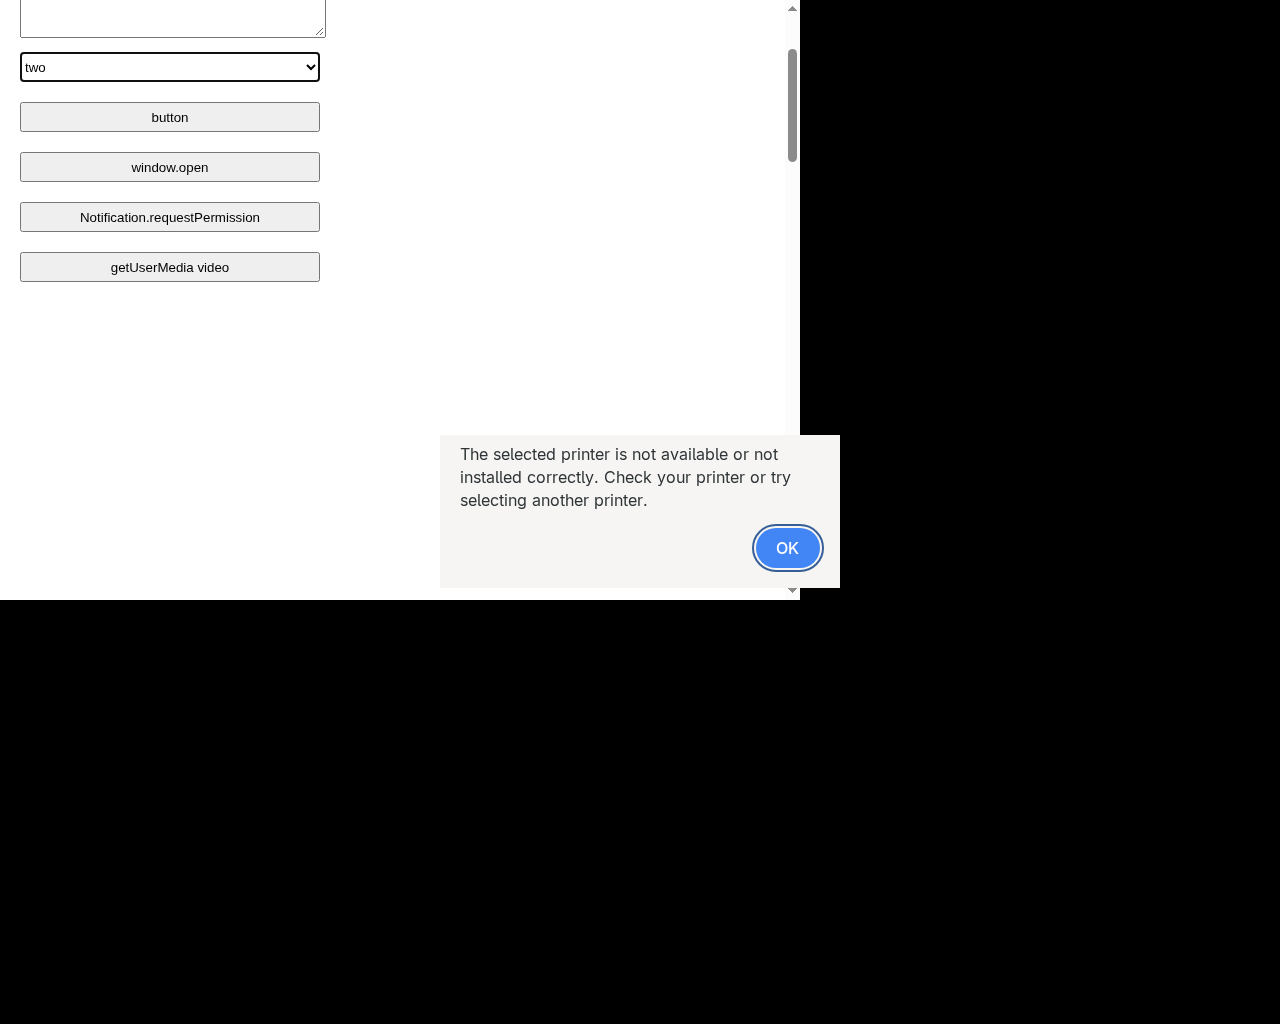
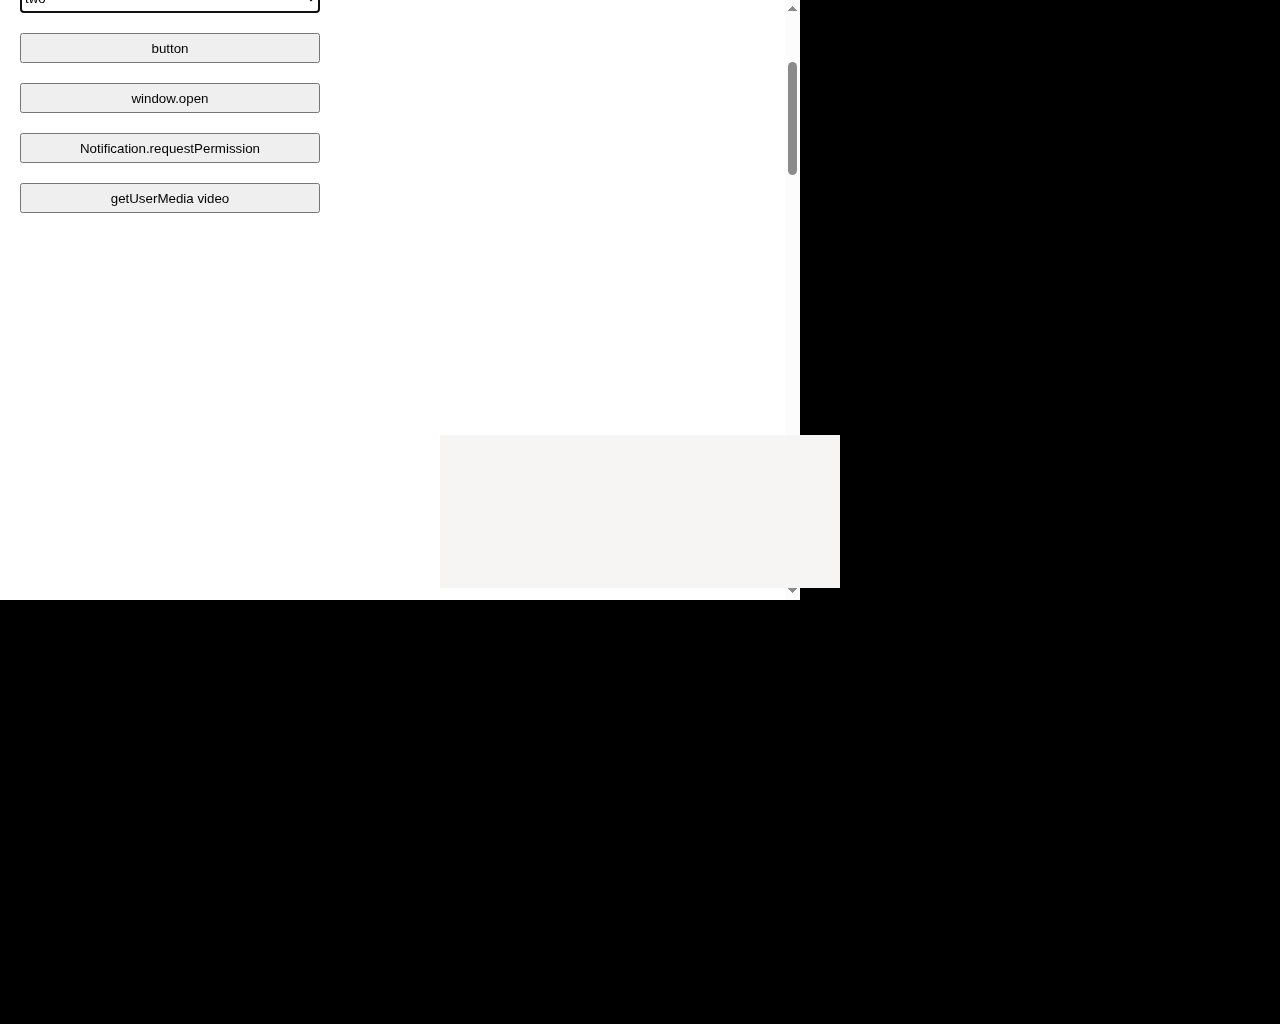
Refresh evidence from a fresh-clone run at c7531da and add the URL display probe

diff --git a/rewrite/spikes/cef-osr-signin/REPORT.md b/rewrite/spikes/cef-osr-signin/REPORT.md
@@ -184,6 +184,10 @@ Command output: [evidence/runtime-checks.txt](evidence/runtime-checks.txt).
 | `libcef.so` copied alone into a directory, `LD_LIBRARY_PATH` pointing there | exit 1: `wrong CEF runtime: cannot read …/archive.json` |
 | Self-check, both modes | loaded `target/cef-runtime/158.0.3/cef_linux_x86_64/libcef.so`, API version 15800, commit `8c29be24…`, archive `cef_binary_158.0.3+g8c29be2+chromium-158.0.8127.18_linux64_beta_minimal.tar.bz2`, SHA-1 `057a0b87…` |
 
+### URL display probe
+
+The second verifier's probe, run with default flags against this clone's build ([log](evidence/url-probe.txt)). A local page opened 9 popups through `window.open` with test tokens in opaque and hierarchical URLs (`data:`, `data://…`, `mailto:`, userinfo, query and fragment, `javascript:`, `javascript://…`, `blob:`, `about:`). It also embedded a remote iframe that logs console lines with its source spoofed to `file://`. In OSR mode `go` then loaded 10 more URLs, including `data://…` and `data:\\…`. Every `[popup]`, `[load-end]` and `[load-error]` line printed `scheme:` or an origin, and no test token reached stderr, stdout or `chrome_debug.log` in either mode. The only token-like text is `zqxhost29.invalid`, the host of an `https` URL, which the rule keeps. In Chrome mode the probe's fixed-position clicks opened no popups, so popup coverage is OSR only; the spoofed iframe ran and relayed nothing in both modes.
+
 ### Self-check
 
 | Field | Alloy OSR | Chrome-style control |
